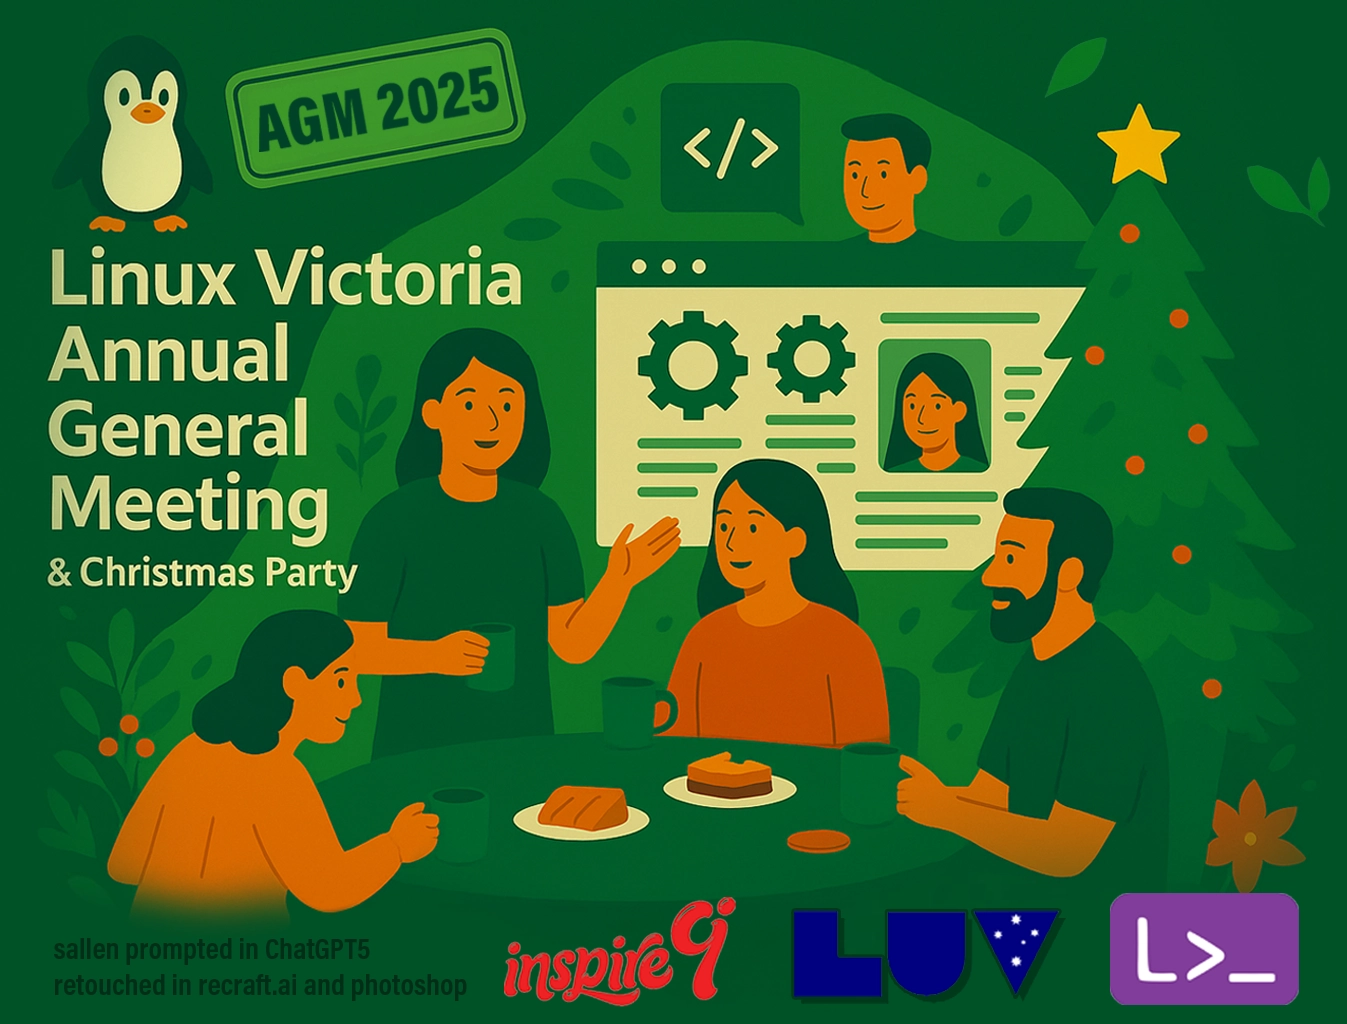
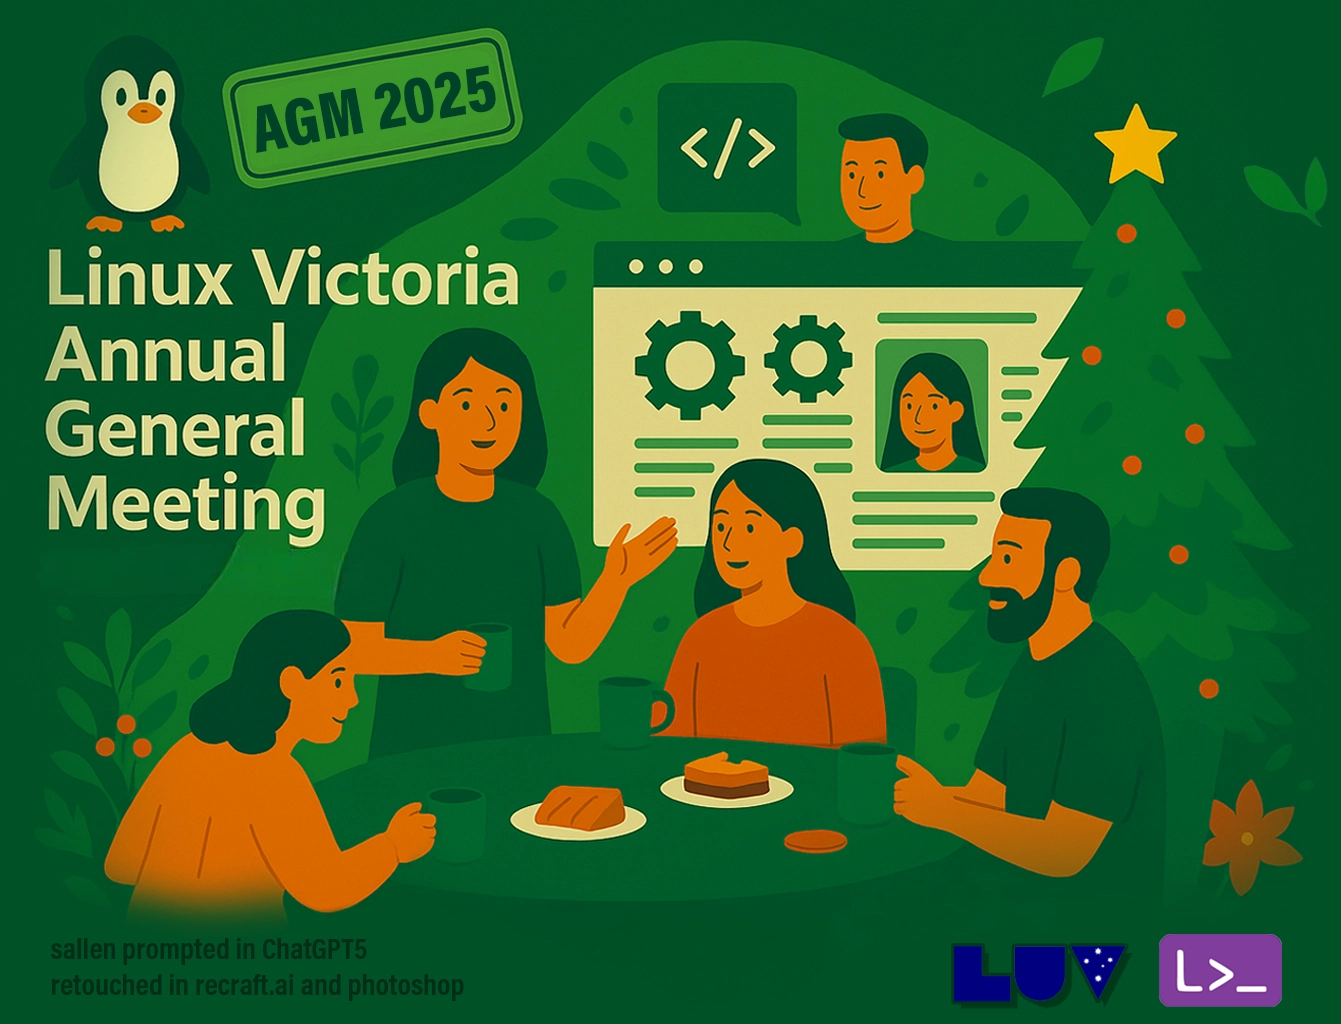
AGM Date time location and poster updated

diff --git a/posts/2025-12-07_AGM-and-Christmas-Party.md b/posts/2025-12-07_AGM-and-Christmas-Party.md
@@ -9,10 +9,9 @@ tags: ["Upcoming","Event", "AGM", "2025", "Hybrid"]
 
 ## Linux Victoria LUV Annual General Meeting
 
-Date: Sunday, December 7th, 2025   
-Time: 3:00 PM – 9:00 PM AEDT (Melbourne, Australia Time)   
-Location: Inspire9 Level 1/41-43 Stewart St, Richmond VIC 3121   
-Google maps link to location: <https://maps.app.goo.gl/xGpFyuZr7Q8y84jc7>
+Date: Tuesday, December 9th, 2025   
+Time: 7:00 PM – 9:00 PM AEDT (Melbourne, Australia Time)  
+Location: EWorkshop eVenue 
 
 ### Agenda
 
@@ -22,19 +21,18 @@ Google maps link to location: <https://maps.app.goo.gl/xGpFyuZr7Q8y84jc7>
 - Questions to directors
 - Election of directors
 - Meeting Close
-- Head to nearby restaurant for Christmas party!
 
 ### How To Join
 To receive event updates, make sure to register:   
 <https://luma.com/5uurf4cs>
 
 
-The AGM will be streamed online. Use the link below to join on the day:   
+Link to join:
 [https://electronworkshop.com.au/goto/venue](https://electronworkshop.com.au/goto/venue)  
 We use a self-hosted Big Blue Button instance (aka BBB) for this meeting, managed by Electron Workshop and hosted by Serversaurus.
 
 ### Schedule
 
-- 15:00 Meet and greet
-- 15:30 Opening
-- 17:30 Closure and head to restaurant
+- 19:00 Meet and greet
+- 19:30 Opening
+- 21:30 Closure
